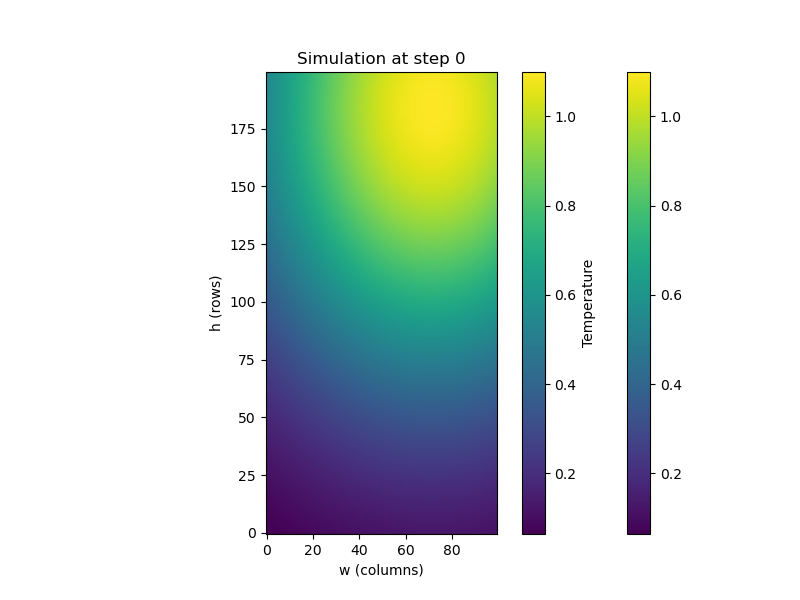
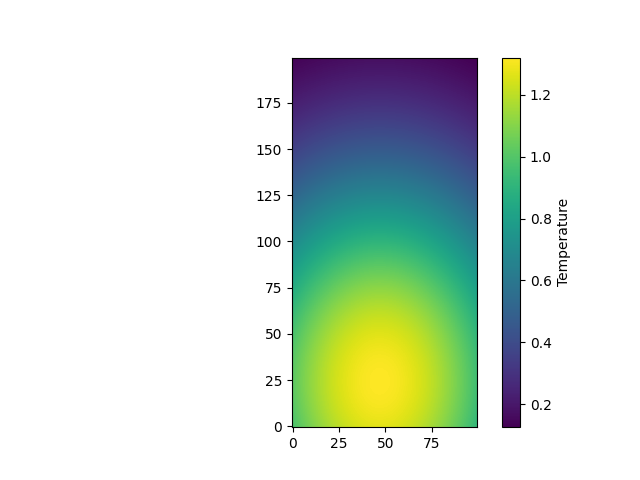
save

diff --git a/dataset.py b/dataset.py
@@ -3,7 +3,7 @@ import torch
 import random
 from torch.utils.data import Dataset
 from utils import create_masked_input, create_x
-from simulation import simulate_simulation
+from simulation import create_blob_diffusivity, simulate_simulation
 import os
 import numpy as np
 import matplotlib.pyplot as plt
@@ -304,9 +304,7 @@ class FullSimulationDataset(td.Dataset):
     def __init__(      
         self, 
         num_simulations, 
-        nx, ny, dx, dy, nt, dt, 
-        d_in, d_out,
-        start_x, start_y, end_x, end_y,
+        nx, ny, dx, dy, nt, dt, D,
         noise_amplitude, 
         device,
         save_path
@@ -316,10 +314,20 @@ class FullSimulationDataset(td.Dataset):
         data = []
         for i in range(num_simulations):
             print(f"generating simulation {i}")
-            T_series = simulate_simulation(nx, ny, dx, dy, nt, dt,
-                                           d_in=d_in, d_out=d_out,
-                                             start_x=start_x, end_x=end_x, start_y=start_y, end_y=end_y,
+            T_series = simulate_simulation(nx, ny, dx, dy, nt, dt,D=D,
                                             noise_amplitude=noise_amplitude, device=device)
+
+            # Display T_series at nt/2
+            mid_step = nt // 2
+            plt.figure()
+            plt.imshow(T_series[mid_step].cpu().numpy(), cmap='viridis', origin='lower')
+            plt.colorbar(label="Temperature")
+            plt.title(f"Temperature Field at time step {mid_step} (nt/2)")
+            plt.xlabel("X index")
+            plt.ylabel("Y index")
+            plt.savefig(f"simulation_frame_at_nt_half_sim_{i}.png") # Save the figure
+            plt.close() # Close the figure to free memory
+            
             data.append(T_series.cpu())
             del T_series
             torch.cuda.empty_cache()
@@ -478,8 +486,8 @@ if __name__ == "__main__":
     num_simulations = 10
     nt = 300
     t0 = nt - 1
-    d_in = 0.1
-    d_out = 0.3
+    d_min = 0.1
+    d_max = 0.3
     start_y = random.randint(0, int(nx / 2) - 1)
     end_y = random.randint(start_y, nx - 1)    
     start_x = random.randint(0, int(ny / 2) - 1)
@@ -490,15 +498,18 @@ if __name__ == "__main__":
 
     save_path_simulation = os.path.join(script_dir, "datasets", "simulation", 
                                         f"{timestamp}_simulation_n{num_simulations}_t0{t0*dt:.3f}_t{nt*dt:.3f}_nx{nx}_ny{ny}"
-                                        f"_dt{dt}_din{d_in}_dout{d_out}_sy{start_y}_ey{end_y}_sx{start_x}_ex{end_x}.pt")
+                                        f"_dt{dt}_dmin{d_min}_dmax{d_max}_sy{start_y}_ey{end_y}_sx{start_x}_ex{end_x}.pt")
     
     print(save_path_simulation)
     if not os.path.exists(os.path.dirname(save_path_simulation)):
         print("no such path")
         exit()
     
-    D = torch.full((ny, nx), d_out, device=device)
-    D[start_y:end_y, start_x:end_x] = d_in
+    D = torch.full((ny, nx), d_max, device=device)
+    D[start_y:end_y, start_x:end_x] = d_min
+    
+    D = create_blob_diffusivity(ny=ny, nx=nx, d_min=d_min, d_max=d_max, n_blobs=5, radius=20, device=device)
+
     plt.figure(figsize=(6, 5))
     plt.imshow(D.cpu().numpy(), cmap='viridis', origin='lower')
     plt.colorbar(label='Diffusion Coefficient')
@@ -511,17 +522,11 @@ if __name__ == "__main__":
         ny=ny,
         dx=dx,
         dy=dy,
-        d_in=d_in,
-        d_out=d_out,
-        start_x=start_x,
-        start_y=start_y,
-        end_x=end_x,
-        end_y=end_y,
+        D=D,
         nt=nt,
         dt=dt,
         noise_amplitude=noise_amplitude,
         device=device,
-        # t0=t0,
         save_path=save_path_simulation
     )
     # ######################################################

diff --git a/simulation.py b/simulation.py
@@ -52,7 +52,7 @@ def initialize_simulation(nx, ny, dx, dy, noise_amplitude=0.0, device='cpu'):
     return initial
 
 
-def simulate_simulation(nx, ny, dx, dy, nt, dt, d_in, d_out, start_y, end_y, start_x, end_x, noise_amplitude=0.0, device='cpu') -> torch.Tensor:
+def simulate_simulation(nx, ny, dx, dy, nt, dt, D, noise_amplitude=0.0, device='cpu') -> torch.Tensor:
     """
     Simulates the heat equation via RK4.
 
@@ -62,18 +62,27 @@ def simulate_simulation(nx, ny, dx, dy, nt, dt, d_in, d_out, start_y, end_y, sta
     T = torch.empty(nt, ny, nx, device=device)
     T[0] = initialize_simulation(nx, ny, dx, dy, noise_amplitude, device=device)
 
-    # diffusion coefficient (same shape as one slice)
-    D = torch.full((ny, nx), d_out, device=device)
-    D[start_y:end_y, start_x:end_x] = d_in
-    # plt.figure(figsize=(6, 5))
-    # plt.imshow(D.cpu().numpy(), cmap='viridis', origin='lower')
-    # plt.colorbar(label='Diffusion Coefficient')
-    # plt.savefig("diffusion_coefficient.png")
-    # plt.show()
     for t in range(nt - 1):
         T[t + 1] = rk4_step(T[t], D, dx, dy, dt)
 
     return T
+
+def create_blob_diffusivity(ny, nx, d_min, d_max, n_blobs=20, radius=10, device='cpu'):
+    Y, X = torch.meshgrid(torch.arange(ny, device=device),
+                          torch.arange(nx, device=device), indexing='ij')
+    D = torch.full((ny, nx), d_min, device=device)
+    for i in range(n_blobs):
+        # random center
+        cy = torch.randint(0, ny, ())
+        cx = torch.randint(0, nx, ())
+        # random radius
+        r = radius * torch.rand(())  
+        # create a circular mask
+        mask = ((X-cx)**2 + (Y-cy)**2) < (r**2)
+        # assign a random diffusivity in [d_min, d_max]
+        val = d_min + (d_max-d_min)*torch.rand(())
+        D[mask] = val
+    return D
 
 
 def visualize_simulation(T, timesteps=[0, 10, 50, -1]):
@@ -100,16 +109,24 @@ if __name__ == "__main__":
     nx, ny = 100, 200       # columns, rows
     dx, dy = 0.01, 0.01
     nt, dt = 800, 1e-4
-    d_in = 0.1
-    d_out = 0.3
+    d_min = 0.1
+    d_max = 0.3
     start_y = random.randint(0, int(nx / 2) - 1)
     end_y = random.randint(start_y, nx - 1)    
     start_x = random.randint(0, int(ny / 2) - 1)
     end_x = random.randint(start_x, ny - 1)
 
-    # run
-    T = simulate_simulation(nx=nx, ny=ny, dx=dx, dy=dy, nt=nt, dt=dt, d_in=d_in, d_out=d_out, 
-                            start_x=start_x, start_y=start_y, end_x=end_x, end_y=end_y, noise_amplitude=0.0, device=device)
+    # # run
+    # T = simulate_simulation(nx=nx, ny=ny, dx=dx, dy=dy, nt=nt, dt=dt, d_in=d_in, d_out=d_out, 
+    #                         start_x=start_x, start_y=start_y, end_x=end_x, end_y=end_y, noise_amplitude=0.0, device=device)
+    
+    D = create_blob_diffusivity(ny=ny, nx=nx, d_min=d_min, d_max=d_max, n_blobs=20, radius=10, device=device)
+    plt.figure(figsize=(6, 5))
+    plt.imshow(D.cpu().numpy(), cmap='viridis', origin='lower')
+    plt.colorbar(label='Diffusion Coefficient')
+    plt.show()  
+    
+    T = simulate_simulation(nx=nx, ny=ny, dx=dx, dy=dy, nt=nt, dt=dt, D=D, noise_amplitude=0.0, device=device)
 
     # show initial condition
     plt.figure(figsize=(6,5))
